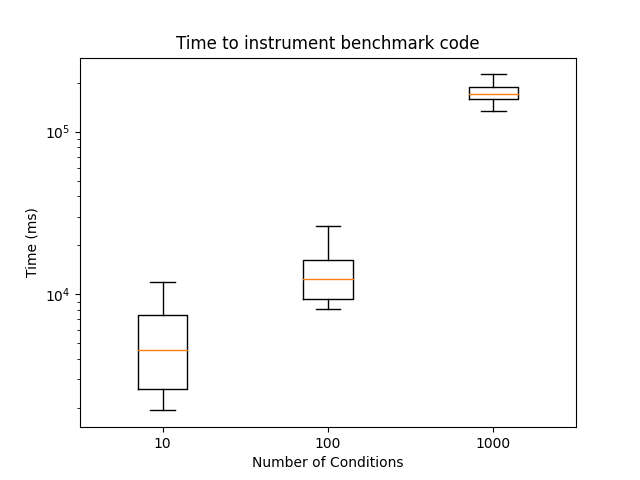
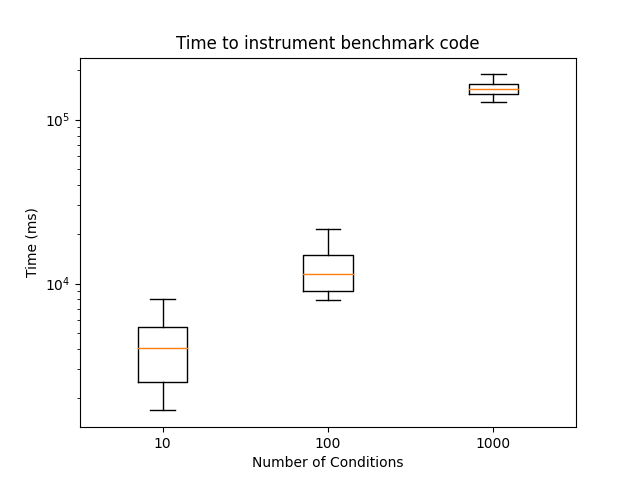
rework logger and rerun benchmark

diff --git a/xisnove/src/main/java/br/usp/larc/Modifier/LogFile.java b/xisnove/src/main/java/br/usp/larc/Modifier/LogFile.java
@@ -1,55 +1,50 @@
 package br.usp.larc.Modifier;
 
-import java.io.FileWriter;
 import java.io.IOException;
-import java.nio.file.*;
+import java.util.logging.*;
 
 public class LogFile {
+    private static final Logger logger = Logger.getLogger(LogFile.class.getName());
+    private static final FileHandler fileHandler;
 
-    public static void write(String classAndMethodName, String conditionType, String condition, String[] conditionParams, Object[] paramValue, boolean finalValue) throws IOException {
-        FileWriter file = new FileWriter("logFile.out", true);
+    static {
+        try {
+            // Remove default console handler
+            logger.setUseParentHandlers(false);
+            
+            fileHandler = new FileHandler("xisnove/src/main/java/br/usp/larc/Modifier/logFile.out", true); // Set append mode to true
+            logger.addHandler(fileHandler);
+            fileHandler.setFormatter(new SimpleFormatter() {
+                @Override
+                public synchronized String format(LogRecord record) {
+                    return record.getMessage() + System.lineSeparator();
+                }
+            });
+        } catch (IOException e) {
+            throw new ExceptionInInitializerError("Failed to initialize logger");
+        }
+    }
+
+    public static void write(String classAndMethodName, String conditionType, String condition, String[] conditionParams, Object[] paramValue, boolean finalValue) {
         // array, se for nested, se nao for, loga mais uma linha
-        System.out.println("class#methodName#[statementType1:params1,...,statementTypeN:paramsN]");
         // ordem de implementaçao:
         // "class#methodName#[a<10,b!=a]#true
         // "class#methodName#a<10 && b!=a#[a.toString(),b.toString()]#true
         // "class#methodName#(if|for|while|switch)#a<10 && b!=a#[a,b]#[a.toString(),b.toString()]#true"
         // "class#methodName#(if|for|while|switch)#a<10 && b!=a#[a,b]#[a.toString(),b.toString()]#true#(numLinha|hash)"
-        String formatted = String.format("%s#%s#%s\n", classAndMethodName);
-        try {
-            file.write(formatted);
-        } catch (IOException e) {
-            System.err.println(e);
-        }
-        file.close();
+        String formatted = String.format("%s#%s#%s", classAndMethodName);
+        logger.info(formatted);
     }
 
-    public static void write(String classAndMethodName, String conditionType, String condition, boolean finalValue, String allTokens, String ...tokenValues) throws IOException {
+    public static void write(String classAndMethodName, String conditionType, String condition, boolean finalValue, String allTokens, String ...tokenValues) {
         // "class#methodName#a<10 && b!=a#true
-        Path projectRoot = Paths.get("src/main/java/br/usp/larc/Modifier").toAbsolutePath();
-        FileWriter file = new FileWriter(projectRoot.normalize().toString() + "/logFile.out", true);
-
-        String formatted = String.format("%s#%s#%s#%b#%s#%s\n", classAndMethodName, conditionType, condition, finalValue, allTokens, String.join(",", tokenValues));
-        try {
-            file.write(formatted);
-        } catch (IOException e) {
-            System.err.println(e);
-        }
-
-        file.close();
+        String formatted = String.format("%s#%s#%s#%b#%s#%s", classAndMethodName, conditionType, condition, finalValue, allTokens, String.join(",", tokenValues));
+        logger.info(formatted);
     }
 
-    public static void write(String classAndMethodName, String conditionType, String condition, boolean finalValue) throws IOException {
-        Path projectRoot = Paths.get("src/main/java/br/usp/larc/Modifier").toAbsolutePath();
-        FileWriter file = new FileWriter(projectRoot.normalize().toString() + "/logFile.out", true);
+    public static void write(String classAndMethodName, String conditionType, String condition, boolean finalValue) {
         // array, se for nested, se nao for, loga mais uma linha
-        System.out.println(conditionType);
-        String formatted = String.format("%s#%s#%s#%b\n", classAndMethodName, conditionType, condition, finalValue);
-        try {
-            file.write(formatted);
-        } catch (IOException e) {
-            System.err.println(e);
-        }
-        file.close();
+        String formatted = String.format("%s#%s#%s#%b", classAndMethodName, conditionType, condition, finalValue);
+        logger.info(formatted);
     }
 }

diff --git a/xisnove/src/main/java/br/usp/larc/Benchmark/plot_benchmark.py b/xisnove/src/main/java/br/usp/larc/Benchmark/plot_benchmark.py
@@ -45,23 +45,24 @@ def plot_boxplot(boxplot_values, title):
 # std_values = [15942.243554494098, 21706.97314614522, 59556.95933240389]
 # plot_average_and_std(average_values, std_values)
 
-boxplot__xisnove_values = [
-    [1926.68, 2610.821, 4549.69, 7463.0375, 11873.14],
-    [8156.445, 9385.9615, 12313.556, 16330.518, 26140.924],
-    [133580.01, 158600.9985, 170710.7445, 187550.5635, 225210.686],
+boxplot_xisnove_values = [
+    [1682.076, 2502.1685, 4023.6565, 5437.7245, 8043.97],
+    [7906.338, 8992.945, 11400.0265, 15000.794, 21451.372],
+    [127717.05, 144144.8525, 154919.138, 165136.3985, 188901.03],
 ]
-plot_boxplot(boxplot__xisnove_values, "Time to instrument benchmark code")
+plot_boxplot(boxplot_xisnove_values, "Time to instrument benchmark code")
 
-boxplot__bench_values = [
-    [23.686, 28.7565, 58.0085, 74.4325, 141.858],
-    [68.411, 108.819, 259.197, 324.6595, 532.026],
-    [904.742, 1116.9885, 1232.807, 3260.4275, 6427.337],
+boxplot_bench_values = [
+    [22.672, 24.4595, 42.055, 71.021, 121.488],
+    [101.22, 114.868, 119.4295, 132.056, 155.946],
+    [848.839, 1086.496, 1155.626, 2191.853, 3330.476]
 ]
-plot_boxplot(boxplot__bench_values, "Time to execute benchmark code")
+plot_boxplot(boxplot_bench_values, "Time to execute benchmark code")
 
-boxplot__instrumented_values = [
-    [121.525, 336.5905, 550.4015, 968.4645, 1860.982],
-    [807.38, 1170.101, 1663.473, 2158.2195, 3614.169],
-    [5184.787, 7666.0495, 11701.9055, 15766.145, 21379.616],
+boxplot_instrumented_values = [
+    [50.944, 69.054, 84.2205, 199.5485, 379.407],
+    [356.687, 598.3625, 637.8515, 784.0175, 1038.45],
+    [2368.68, 2757.94, 3104.357, 6649.6345, 10814.553],
 ]
-plot_boxplot(boxplot__xisnove_values, "Time to execute instrumented benchmark code")
+
+plot_boxplot(boxplot_instrumented_values, "Time to execute instrumented benchmark code")

diff --git a/xisnove/target/classes/br/usp/larc/Benchmark/plot_benchmark.py b/xisnove/target/classes/br/usp/larc/Benchmark/plot_benchmark.py
@@ -45,23 +45,24 @@ def plot_boxplot(boxplot_values, title):
 # std_values = [15942.243554494098, 21706.97314614522, 59556.95933240389]
 # plot_average_and_std(average_values, std_values)
 
-boxplot__xisnove_values = [
-    [1926.68, 2610.821, 4549.69, 7463.0375, 11873.14],
-    [8156.445, 9385.9615, 12313.556, 16330.518, 26140.924],
-    [133580.01, 158600.9985, 170710.7445, 187550.5635, 225210.686],
+boxplot_xisnove_values = [
+    [1682.076, 2502.1685, 4023.6565, 5437.7245, 8043.97],
+    [7906.338, 8992.945, 11400.0265, 15000.794, 21451.372],
+    [127717.05, 144144.8525, 154919.138, 165136.3985, 188901.03],
 ]
-plot_boxplot(boxplot__xisnove_values, "Time to instrument benchmark code")
+plot_boxplot(boxplot_xisnove_values, "Time to instrument benchmark code")
 
-boxplot__bench_values = [
-    [23.686, 28.7565, 58.0085, 74.4325, 141.858],
-    [68.411, 108.819, 259.197, 324.6595, 532.026],
-    [904.742, 1116.9885, 1232.807, 3260.4275, 6427.337],
+boxplot_bench_values = [
+    [22.672, 24.4595, 42.055, 71.021, 121.488],
+    [101.22, 114.868, 119.4295, 132.056, 155.946],
+    [848.839, 1086.496, 1155.626, 2191.853, 3330.476]
 ]
-plot_boxplot(boxplot__bench_values, "Time to execute benchmark code")
+plot_boxplot(boxplot_bench_values, "Time to execute benchmark code")
 
-boxplot__instrumented_values = [
-    [121.525, 336.5905, 550.4015, 968.4645, 1860.982],
-    [807.38, 1170.101, 1663.473, 2158.2195, 3614.169],
-    [5184.787, 7666.0495, 11701.9055, 15766.145, 21379.616],
+boxplot_instrumented_values = [
+    [50.944, 69.054, 84.2205, 199.5485, 379.407],
+    [356.687, 598.3625, 637.8515, 784.0175, 1038.45],
+    [2368.68, 2757.94, 3104.357, 6649.6345, 10814.553],
 ]
-plot_boxplot(boxplot__xisnove_values, "Time to execute instrumented benchmark code")
+
+plot_boxplot(boxplot_instrumented_values, "Time to execute instrumented benchmark code")

diff --git a/xisnove/src/main/java/br/usp/larc/Benchmark/Benchmarks.java b/xisnove/src/main/java/br/usp/larc/Benchmark/Benchmarks.java
@@ -7,20 +7,20 @@ import br.usp.larc.Modifier.AstFindAllConditionalModifier;
 
 public class Benchmarks {
     public static void main(String[] args) throws IOException {
-        System.out.println("Instrumented (ms):");
-        runAllInstrumented();
+        // System.out.println("Instrumented (ms):");
+        // runAllInstrumented();
 
-        // double[] benchStats = runBenchmark1000();
-        // double[] benchXisnoveStats = runXisnove();
+        double[] benchStats = runBenchmark10();
+        double[] benchXisnoveStats = runXisnove();
 
-        // System.out.println("\nBench1000 (ms):");
-        // printStatsArrayInMs(benchStats);
+        System.out.println("\nBench10 (ms):");
+        printStatsArrayInMs(benchStats);
     
-        // System.out.println("Xisnove (ms):");
-        // printStatsArrayInMs(benchXisnoveStats);
+        System.out.println("Xisnove (ms):");
+        printStatsArrayInMs(benchXisnoveStats);
     }
 
-    public static void runAllInstrumented() throws IOException {
+    public static void runAllInstrumented() {
         long[] resultsBench10 = new long[100];
         for (int i =0; i<100; i++) {
             long bench10 = BenchmarkInstrumented10.getNanotime();

diff --git a/xisnove/src/main/java/br/usp/larc/Modifier/AstFindAllConditionalModifier.java b/xisnove/src/main/java/br/usp/larc/Modifier/AstFindAllConditionalModifier.java
@@ -121,9 +121,6 @@ public class AstFindAllConditionalModifier {
                     Boolean shouldInstrumentThisCondition = flaggedConditions.containsKey(conditionId) && flaggedConditions.get(conditionId).contains(conditionString);
                     
                     if (!productionCode || (productionCode && shouldInstrumentThisCondition)) {
-                        if (!md.isThrown(IOException.class)) {
-                            md.addThrownException(IOException.class);
-                        }
                         findAndAddLog(ifStmt, this.names, ifStmtNumber);
                     }
                 });
@@ -137,7 +134,7 @@ public class AstFindAllConditionalModifier {
             sourceRoot.saveAll();
         } else {
             // When executing the benchmark do not overwrite the original class
-            String outputFilePath = "xisnove/src/main/java/br/usp/larc/Benchmark/Benchmark1000.output";
+            String outputFilePath = "xisnove/src/main/java/br/usp/larc/Benchmark/Benchmark10.output";
             File outputFile = new File(outputFilePath);
     
             // Ensure the output directory exists

diff --git a/xisnove/src/main/java/br/usp/larc/Benchmark/BenchmarkInstrumented1000.java b/xisnove/src/main/java/br/usp/larc/Benchmark/BenchmarkInstrumented1000.java
@@ -1,7 +1,6 @@
 package br.usp.larc.Benchmark;
 
 import br.usp.larc.Modifier.LogFile;
-import java.io.IOException;
 
 public class BenchmarkInstrumented1000 {
 
@@ -13,11 +12,11 @@ public class BenchmarkInstrumented1000 {
 
     private static Boolean boolean2 = false;
 
-    public static void main(String[] args) throws IOException {
+    public static void main(String[] args) {
         getNanotime();
     }
 
-    public static long getNanotime() throws IOException {
+    public static long getNanotime() {
         long startTime = System.nanoTime();
         LogFile.write("Benchmark1000#getNanotime", "ifStmt", "a != 10", a != 10, "[a]", String.valueOf(a));
         if (a != 10) {

diff --git a/xisnove/src/main/java/br/usp/larc/Benchmark/BenchmarkInstrumented100.java b/xisnove/src/main/java/br/usp/larc/Benchmark/BenchmarkInstrumented100.java
@@ -1,7 +1,6 @@
 package br.usp.larc.Benchmark;
 
 import br.usp.larc.Modifier.LogFile;
-import java.io.IOException;
 
 public class BenchmarkInstrumented100 {
 
@@ -13,11 +12,11 @@ public class BenchmarkInstrumented100 {
 
     private static Boolean boolean2 = false;
 
-    public static void main(String[] args) throws IOException {
+    public static void main(String[] args) {
         getNanotime();
     }
 
-    public static long getNanotime() throws IOException {
+    public static long getNanotime() {
         long startTime = System.nanoTime();
         LogFile.write("Benchmark100#getNanotime", "ifStmt", "a != 10", a != 10, "[a]", String.valueOf(a));
         if (a != 10) {

diff --git a/xisnove/src/main/java/br/usp/larc/Benchmark/BenchmarkInstrumented10.java b/xisnove/src/main/java/br/usp/larc/Benchmark/BenchmarkInstrumented10.java
@@ -1,7 +1,6 @@
 package br.usp.larc.Benchmark;
 
 import br.usp.larc.Modifier.LogFile;
-import java.io.IOException;
 
 public class BenchmarkInstrumented10 {
 
@@ -13,11 +12,11 @@ public class BenchmarkInstrumented10 {
 
     private static Boolean boolean2 = false;
 
-    public static void main(String[] args) throws IOException {
+    public static void main(String[] args) {
         getNanotime();
     }
 
-    public static long getNanotime() throws IOException {
+    public static long getNanotime() {
         long startTime = System.nanoTime();
         LogFile.write("Benchmark10#getNanotime", "ifStmt", "a != 10", a != 10, "[a]", String.valueOf(a));
         if (a != 10) {
